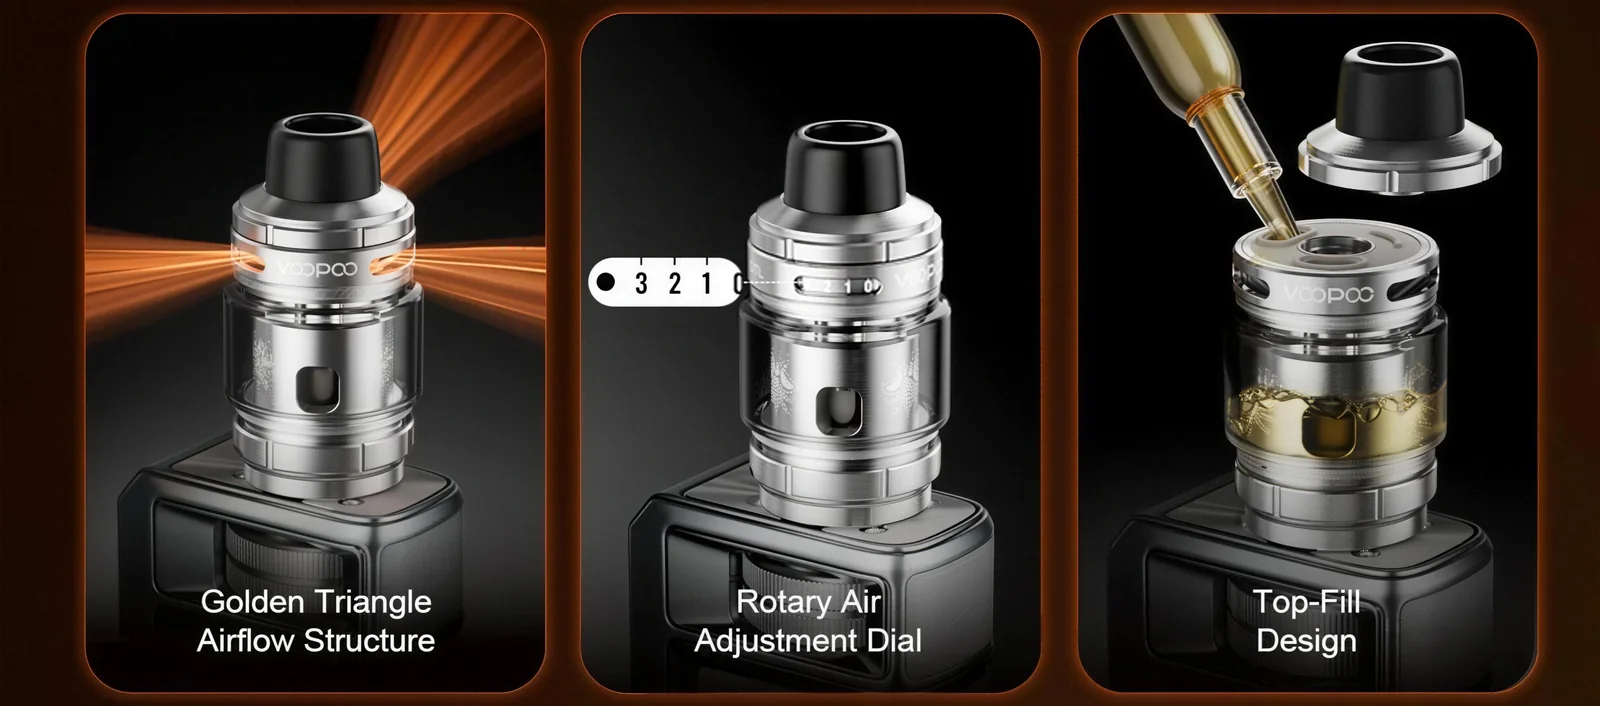
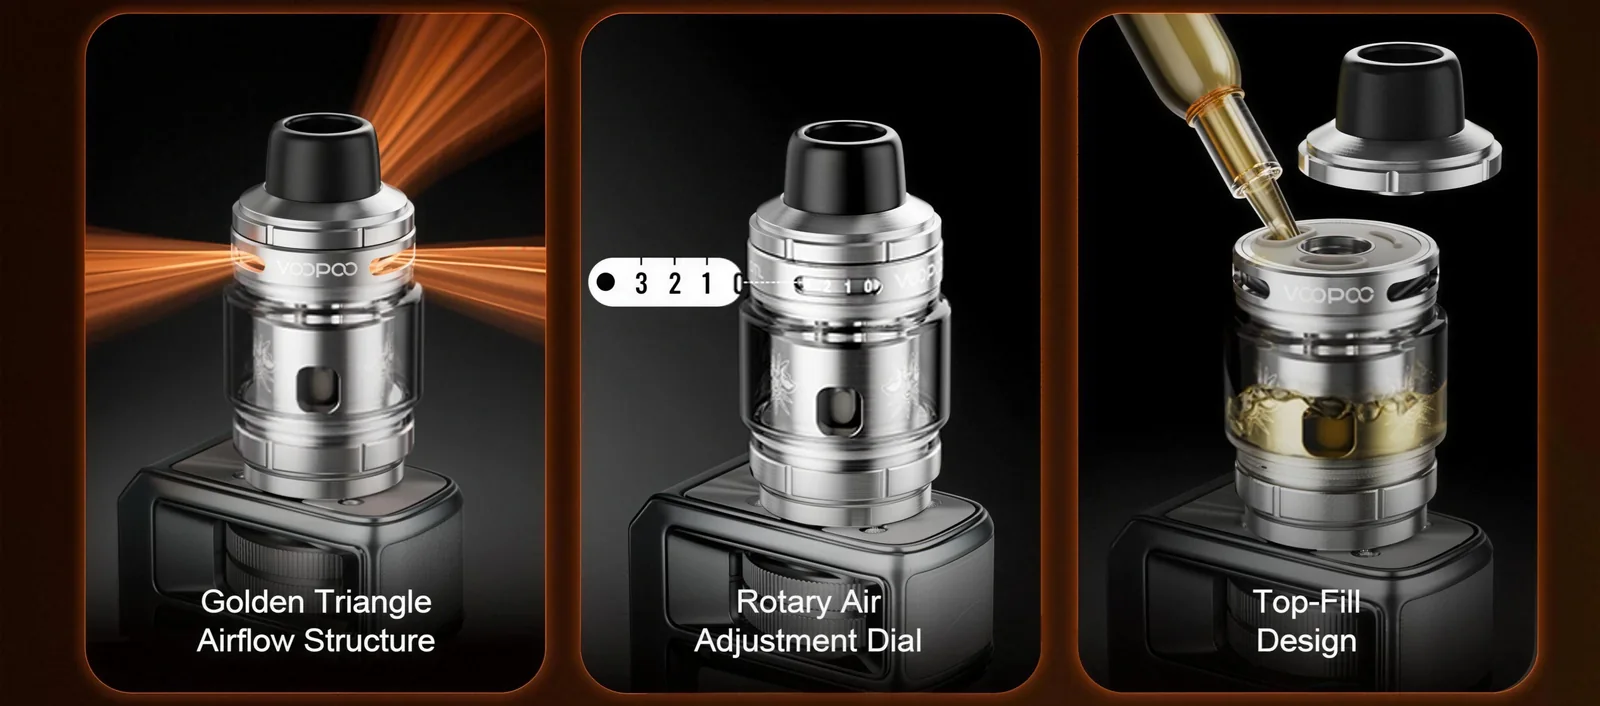
fix(drag-6,drag-s3): checker #259 - real surface detail back, airflow zoom 1000 px
- DRAG 6 tank poster: the AI redrew the engraving on the three tank glasses -> VOOPOO's pixels
  there too (composite.js boxes). S3 battery poster: the AI redrew the body emboss -> the whole
  device in that tile keeps VOOPOO's pixels, the hand and background stay upscaled.
- Airflow anatomy zoom: image-sharpness-gate needs >= 1000 px. AI upscale of the 500-px cut, DTL
  label and the cut-out edge band keep VOOPOO's pixels, alpha = the original's (zoom.js).
  zoom-airflow-v4.webp 1000x1000; v3 (added in this PR, never live) removed.

diff --git a/src/i18n/anatomy-sheet-copy.ts b/src/i18n/anatomy-sheet-copy.ts
@@ -338,7 +338,7 @@ export const ANATOMY_SHEETS: Record<string, AnatomySheet> = {
     zooms: [
       { id: "screen", code: "DISPLAY", name: { th: "จอ", en: "Screen", zh: "屏幕" }, image: { src: `${D6}/zoom-screen-v1.webp`, width: 499, height: 499, alt: { th: "จอของ DRAG 6 ระยะใกล้", en: "DRAG 6 screen, close-up", zh: "DRAG 6 屏幕特写" } } },
       { id: "wheel", code: "CONTROL WHEEL", name: { th: "ล้อหมุน", en: "Control wheel", zh: "拨轮" }, image: { src: `${D6}/zoom-wheel-v1.webp`, width: 470, height: 470, alt: { th: "ล้อหมุนของ DRAG 6 ระยะใกล้", en: "DRAG 6 control wheel, close-up", zh: "DRAG 6 拨轮特写" } } },
-      { id: "airflow", code: "AIRFLOW", name: { th: "แหวนปรับลม", en: "Airflow adjustment", zh: "调气环" }, image: { src: `${D6}/zoom-airflow-v3.webp`, width: 500, height: 500, alt: { th: "แหวนปรับลมบนถังของ DRAG 6 ระยะใกล้", en: "DRAG 6 tank airflow dial, close-up", zh: "DRAG 6 烟仓调气环特写" } } },
+      { id: "airflow", code: "AIRFLOW", name: { th: "แหวนปรับลม", en: "Airflow adjustment", zh: "调气环" }, image: { src: `${D6}/zoom-airflow-v4.webp`, width: 1000, height: 1000, alt: { th: "แหวนปรับลมบนถังของ DRAG 6 ระยะใกล้", en: "DRAG 6 tank airflow dial, close-up", zh: "DRAG 6 烟仓调气环特写" } } },
     ],
     facts: [
       { specKey: "dimensions", text: { th: "150 × 51.4 × 28.6 mm", en: "150 × 51.4 × 28.6 mm", zh: "150 × 51.4 × 28.6 mm" } },
